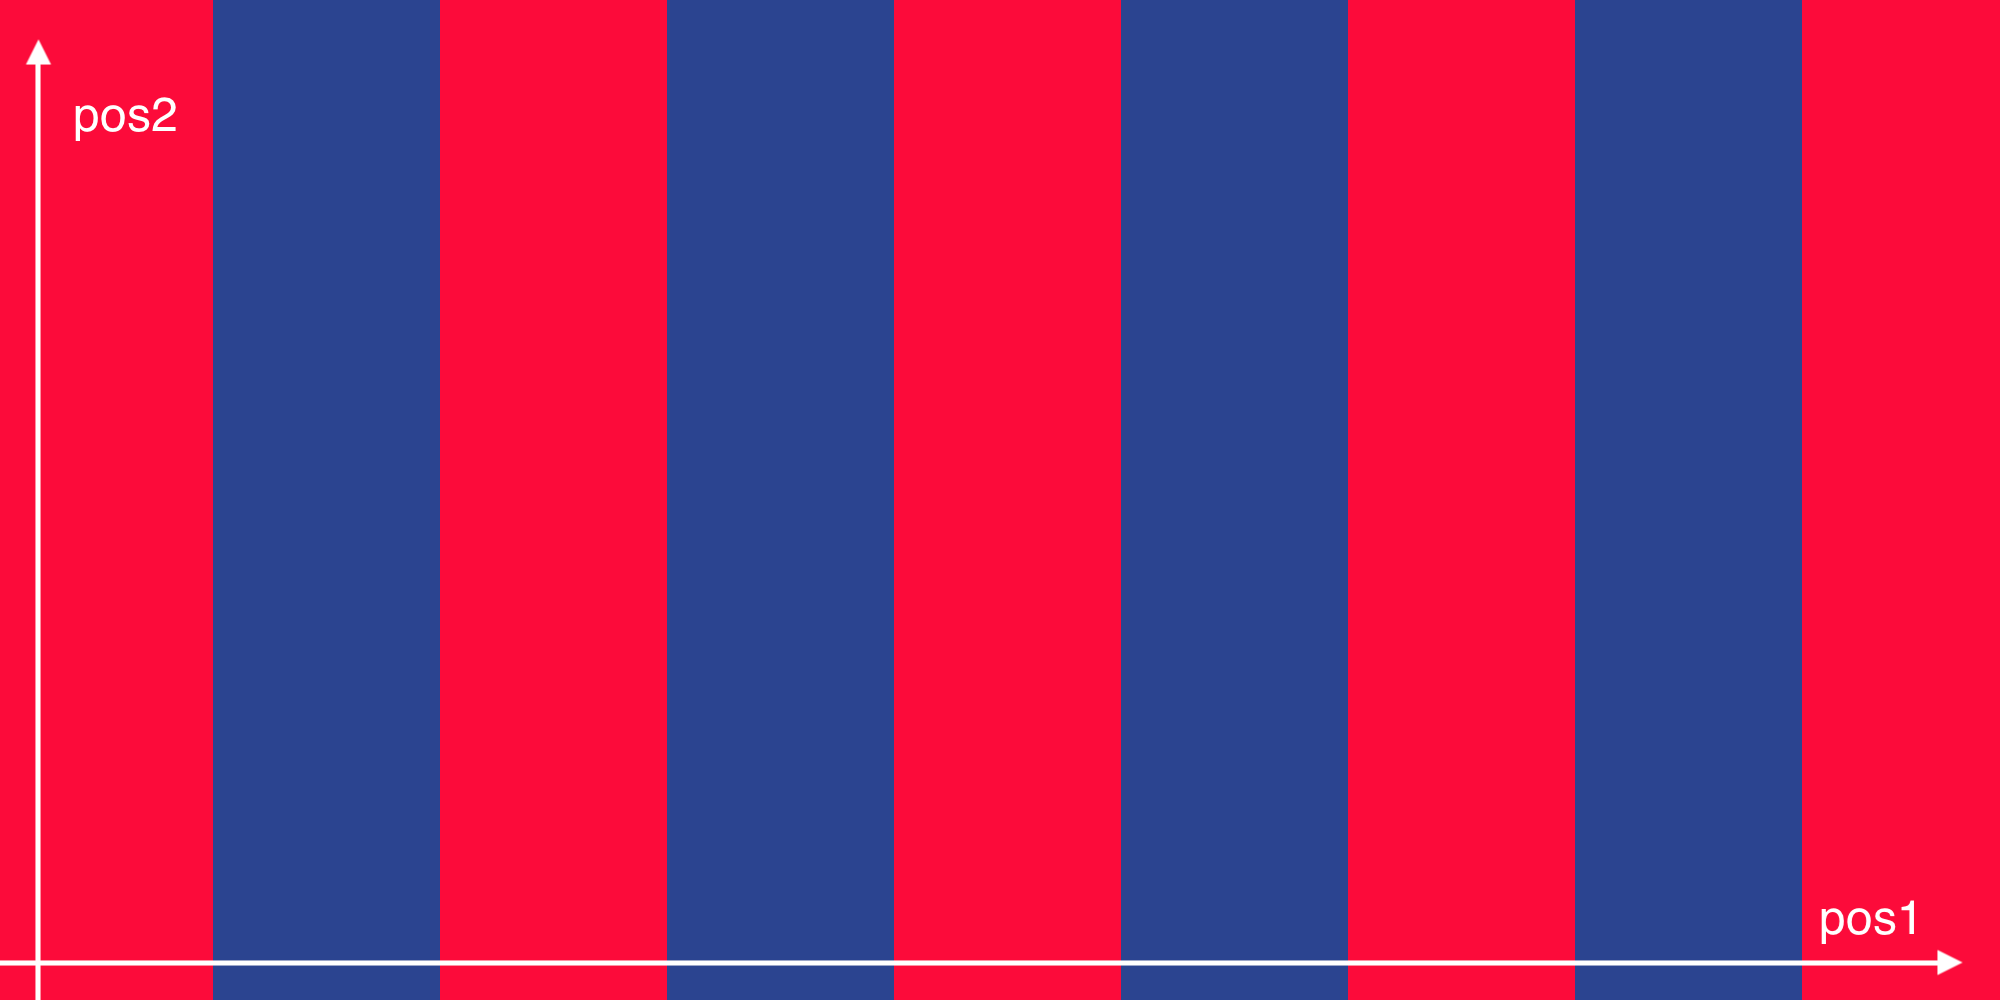
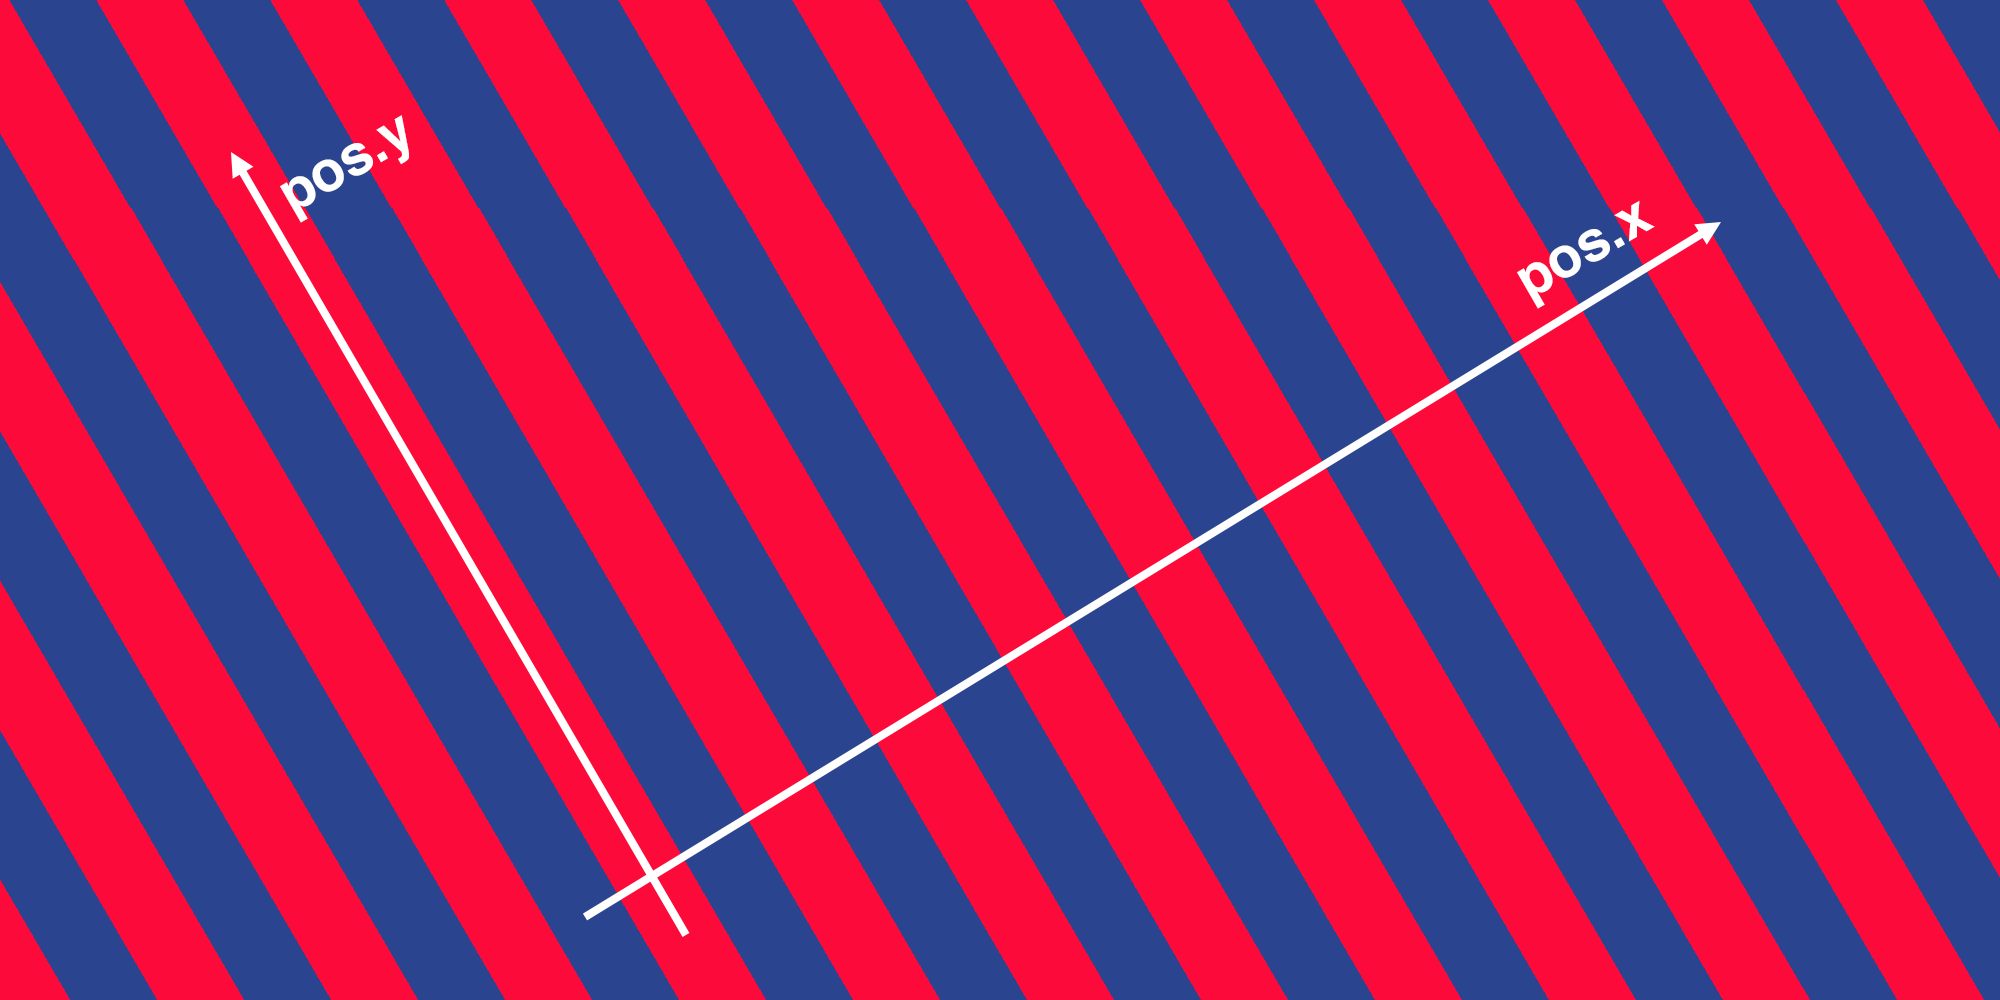
cleaned of stripes shader post

diff --git a/_posts/2017-10-03-stripes-shader.md b/_posts/2017-10-03-stripes-shader.md
@@ -224,14 +224,15 @@ fixed4 frag (v2f i) : SV_Target
 {
 	const float PI = 3.14159;
 
-	float pos1 = lerp(i.uv.x, i.uv.y, _Direction);
-	float pos2 = lerp(i.uv.y, 1 - i.uv.x, _Direction);
+	float2 pos;
+	pos.x = lerp(i.uv.x, i.uv.y, _Direction);
+	pos.y = lerp(i.uv.y, 1 - i.uv.x, _Direction);
 
-	pos1 += sin(pos2 * _WarpTiling * PI * 2) * _WarpScale;
-	pos1 += _WarpScale;
-	pos1 *= _Tiling;
+	pos.x += sin(pos.y * _WarpTiling * PI * 2) * _WarpScale;
+	pos.x += _WarpScale;
+	pos.x *= _Tiling;
 
-	fixed value = fmod((int)pos1, 2);
+	fixed value = fmod((int)pos.x, 2);
 	return lerp(_Color1, _Color2, value);
 }
 ```
@@ -241,31 +242,32 @@ Now step by step. First we define a constant `PI` that we will use later to tran
 const float PI = 3.14159;
 ```
 
-We rename our pos variable to pos1 because we need another position which should always be orthogonal to pos1. For example if `_Direction` is zero `pos1` would be `i.uv.x` which is a gradient along the x-axis and we would get vertical stripes. And `pos2` would be `i.uv.y` which is gradient along the y-axis - orthogonal to the first one. We need this second gradient because we want to warp along the axis orthogonal to to the stripes.
+The type of pos has been changed to float2. This has been done because we need both components x and y of the rotated uvs. Before we added the rotation `pos` was just the x component of the uvs (multiplied by the tiling factor). So now if `Direction` was zero pos would be equal to `i.uv`. If `Direction` has a different value `pos` would contain the rotated uvs. We need the y component of `pos` because we want to calculate the warping based on the y (or v) component of the uvs. In other words: The stripes should be warped along the axis orthogonal to their direction.
 
 ``` c
-float pos1 = lerp(i.uv.x, i.uv.y, _Direction);
-float pos2 = lerp(i.uv.y, 1 - i.uv.x, _Direction);
+float2 pos;
+pos.x = lerp(i.uv.x, i.uv.y, _Direction);
+pos.y = lerp(i.uv.y, 1 - i.uv.x, _Direction);
 ```
 
 ![UVs shader](/assets/2017-10-03-stripes-shader/pos.png)
 
-The next line adds an offset to `pos1` which does the warping. It's just a sine function which takes `pos2` as an argument. Because `sin` wants its arguments in radian units we multiply `pos2` by 2 PI so there is exactly one sine wave along the pos2-axis. To allow tiling of the sine wave we multiply also by `_WarpTiling`. We multiply result of the sine function by `_WarpScale` so we can scale the amount of warping along the pos1-axis.
+The next line adds an offset to `pos.x` which does the warping. It's just a sine function which takes `pos.y` as an argument. Because `sin` wants its arguments in radian units we multiply `pos.y` by 2 PI so there is exactly one sine wave along the length of 1 uv. To allow tiling of the sine wave we multiply also by `_WarpTiling`. We multiply result of the sine function by `_WarpScale` so we can scale the amount of warping along the pos.x-axis.
 
 ``` c
-pos1 += sin(pos2 * _WarpTiling * PI * 2) * _WarpScale;
+pos.x += sin(pos.y * _WarpTiling * PI * 2) * _WarpScale;
 ```
 
-The following line adds another offset. We need this so pos1 never becomes negative. Negative values would add some artifacts to warped stripes at the origin of the pos1-axis.
+The following line adds another offset. We need this so pos1 never becomes negative. Negative values would add some artifacts to warped stripes at the origin of the pos.x-axis.
 
 ``` c
-pos1 += _WarpScale;
+pos.x += _WarpScale;
 ```
 
-In the last line we multiply `pos1` by the tiling parameter.
+In the last line we multiply `pos.x` by the tiling parameter.
 
 ``` c
-pos1 *= _Tiling;
+pos.x *= _Tiling;
 ```
 
 This is the full code of the stripes shader and the final result:
@@ -324,14 +326,15 @@ Shader "Unlit/Stripes"
 			{
 				const float PI = 3.14159;
 
-				float pos1 = lerp(i.uv.x, i.uv.y, _Direction);
-				float pos2 = lerp(i.uv.y, 1 - i.uv.x, _Direction);
+				float2 pos;
+				pos.x = lerp(i.uv.x, i.uv.y, _Direction);
+				pos.y = lerp(i.uv.y, 1 - i.uv.x, _Direction);
 
-				pos1 += _WarpScale;
-				pos1 += sin(pos2 * _WarpTiling * PI * 2) * _WarpScale;
-				pos1 *= _Tiling;
+				pos.x += _WarpScale;
+				pos.x += sin(pos.y * _WarpTiling * PI * 2) * _WarpScale;
+				pos.x *= _Tiling;
 
-				fixed value = fmod((int)pos1, 2);
+				fixed value = fmod((int)pos.x, 2);
 				return lerp(_Color1, _Color2, value);
 			}
 			ENDCG
@@ -342,6 +345,6 @@ Shader "Unlit/Stripes"
 
 ![Final Stripes](/assets/2017-10-03-stripes-shader/final.png)
 
-Here you can find a [Unity Package of the shader and an example scene]().
+Here you can find a [Unity Package of the shader and an example scene](/assets/2017-10-03-stripes-shader/stripes_shader.unitypackage).
 
 And that's all folks! I hope you learned something new and have fun playing around with the shader!
